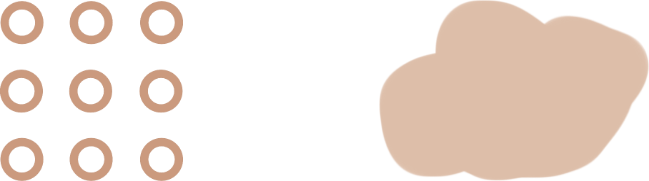
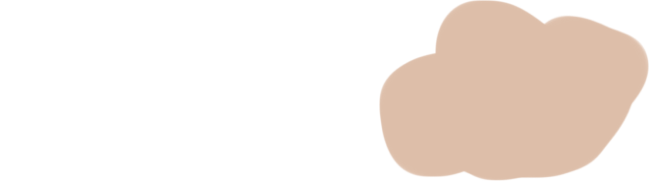
updated work page and removed about page (for now) "

diff --git a/pages/Work.html b/pages/Work.html
@@ -33,9 +33,6 @@
                     <a class="nav-bar" href="../index.html">Home</a>
                 </li>
                 <li>
-                    <a class="nav-bar" href="/pages/About.html">About</a>
-                </li>
-                <li>
                     <a class="active" href="/pages/Work.html">Work</a>
                 </li>
             </ul>
@@ -52,11 +49,12 @@
             </div>
             <div class="work-image-container">
                 <div class="work-image">
-                    <img src="/images/work-image-placeholder.png" alt="work-image-placeholder" class="work-image"> 
+                    <img src="/images/work-image-1.png" alt="work-image-placeholder" class="work-image"> 
                 </div>
             </div>
             <div class="work-text-container">
-                text box
+                <h4>Summer 2020-2021, Summer Research Internship (UQ)</h4>
+                 I completed my task of developing a compatible way to host responsive grading exercises for the R language on Binder. The aim of this task was to provide a more interactive format for users to learn the R language and content hosted on the LADAL (Language Technology and Data Analysis Laboratory) website. Using packages from other sources (gradethis), I had to learn about environment packages and some C coding to integrate the gradethis package to work on Binder. A challenge that I faced with this task was the time issue, as binder would occasionally load for a long (10 min +) time prior to working, which was not feasible for a user. Therefore, with some limitations, the compromise was to use an older version of R to provide an interactive grading system. Overall, this solution was feasible and an interactive grading system was available to use with the binder system. A working example of this work is available on my Github. 
             </div>
             
         </div>
@@ -73,11 +71,14 @@
             </div>
             <div class="work-image-container">
                 <div class="work-image">
-                    <img src="/images/work-image-placeholder.png" alt="work-image-placeholder" class="work-image"> 
+                    <img src="/images/work-image-2.png" alt="work-image-placeholder" class="work-image"> 
                 </div>
             </div>
             <div class="work-text-container">
-                text box
+                <h4>Jul 2020 – Present, Co-executive of LIT Social Marketing (UQ)</h4> 
+LIT stands for Ladies and Technology and is a UQ club which aims to promote and empower females studying technology at UQ. The aim of the group is to be inclusive for all women regardless of their course background and aims to provide resources, workshops, and information to help everyone’s journey in entering the tech field. I am a part of the social marketing team where we use platforms including Facebook, LinkedIn and Instagram to promote events, articles, job opportunities etc for the community. I have used several resources including Photoshop, Canva, Illustrator and Procreate to create designs to promote the club. 
+
+
             </div>
             
         </div>
@@ -94,11 +95,14 @@
             </div>
             <div class="work-image-container">
                 <div class="work-image">
-                    <img src="/images/work-image-placeholder.png" alt="work-image-placeholder" class="work-image"> 
+                    <img src="/images/work-image-3.png" alt="work-image-placeholder" class="work-image"> 
                 </div>
             </div>
             <div class="work-text-container">
-                text box
+                <h4>Aug 2020 – May 2021, Co-coordinator Student Staff Partnerships (UQ)</h4>
+                	Co-created guides for effective group work practice; students in the Humanities, Arts and or Social Sciences faculty and worked in a diverse team of 5 including people doing their masters/bachelors or staff members of UQ. 
+
+
             </div>
             
         </div>
@@ -108,7 +112,7 @@
     <section class="bottom-floor">
         <div class="bottom-container">
                 <div class="bottom-title">
-                    Say Hello 👋 
+                    Contact Me
                 </div>
                 <div class="images">
                     <div class="icon-box-1">
@@ -138,10 +142,7 @@
                         <ul class="bottom-tags">
                             <li class="bottom-tags">
                                 <a class="nav-tag" href="../index.html">Home</a>
-                            </li>
-                            <li class="bottom-tags">
-                                <a class="nav-tag" href="/pages/About.html">About</a>
-                            </li>
+                            </li> 
                             <li class="bottom-tags">
                                 <a class="nav-tag" href="/pages/Work.html">Work</a>
                             </li>

diff --git a/index.html b/index.html
@@ -36,9 +36,6 @@
                     <a class="active" href="index.html">Home</a>
                 </li>
                 <li>
-                    <a class="nav-bar" href="/pages/About.html">About</a>
-                </li>
-                <li>
                     <a class="nav-bar" href="/pages/Work.html">Work</a>
                 </li>
             </ul>
@@ -50,8 +47,8 @@
             <div id="text-box-1">
                 <div class="title">Hello! 👋</div>
                 <div class="subtitle"> My name is Kim.</div>
-                <div class="subtitle-2"> { I study Software Engineering/Arts student at UQ }</div>
-                <div class="subtitle-2"> { I code, design and pet dogs in my spare time }</div>
+                <div class="subtitle-2"> { I study Computer Science at UQ }</div>
+                <div class="subtitle-2"> { In my spare time, I code, design and pet my dog }</div>
                 <!--  <div class="subtitle-3"> 💻 🎨 🐶</div>  -->
             </div>
             <div id="photo-box">
@@ -109,7 +106,7 @@
     <section class="bottom-floor">
         <div class="bottom-container">
                 <div class="bottom-title">
-                    Say Hello 👋 
+                    Contact Me
                 </div>
                 <div class="images">
                     <div class="icon-box-1">
@@ -139,9 +136,6 @@
                         <ul class="bottom-tags">
                             <li class="bottom-tags">
                                 <a class="nav-tag" href="index.html">Home</a>
-                            </li>
-                            <li class="bottom-tags">
-                                <a class="nav-tag" href="/pages/About.html">About</a>
                             </li>
                             <li class="bottom-tags">
                                 <a class="nav-tag" href="/pages/Work.html">Work</a>

diff --git a/css/style.css b/css/style.css
@@ -503,7 +503,7 @@ body{
 }
 
 .work-image-container{
-    width: 20vw;
+    width: 30vw;
     height: 1vw;
     margin-left: 10vw;
     margin-top: 10vw;
@@ -517,27 +517,30 @@ body{
 }
 
 .work-text-container{
-    background-color: pink;
     width: 40vw;
     margin-left: 50vw;
-    margin-top: 10vw;
+    margin-top: 8vh;
     position: absolute;
     z-index: 1;
+    font-size: 18px;
+    text-align: left;
+    line-height: 5vh;
+   
 }
 
 .work-front-1{
     position: absolute;
     z-index: 1;
-    width: 20vw;
+    width: 30vw;
     background-color: transparent;
-    margin-top: 27vw;
-    margin-left: 10vw;
+    margin-top: 35vw;
+    margin-left: 13vw;
 }
 .work-back-1{
     position: absolute;
     z-index: 0;
     width: 25vw;
-    margin-top: 15vw;
+    margin-top: 25vw;
     background-color: transparent;
 }
 
@@ -546,25 +549,25 @@ body{
     z-index: 1;
     width: 10vw;
     background-color: transparent;
-    margin-top: 27vw;
+    margin-top: 76vh;
     margin-left: 8vw;
 }
 .work-back-2{
     position: absolute;
     z-index: 0;
-    width: 35vw;
+    width: 40vw;
     margin-top: 5vw;
-    margin-left: 3vw;
+    margin-left: 5vw;
     background-color: transparent;
 }
 
 .work-front-3{
     position: absolute;
     z-index: 1;
-    width: 25vw;
+    width: 32vw;
     background-color: transparent;
     margin-top: 10vw;
-    margin-left: 8vw;
+    margin-left: 32vw;
 }
 .work-back-3{
     position: absolute;

diff --git a/pages/About.html b/pages/About.html
@@ -77,7 +77,7 @@
     <section class="bottom-floor">
         <div class="bottom-container">
                 <div class="bottom-title">
-                    Say Hello 👋 
+                    Contact Me 
                 </div>
                 <div class="images">
                     <div class="icon-box-1">
